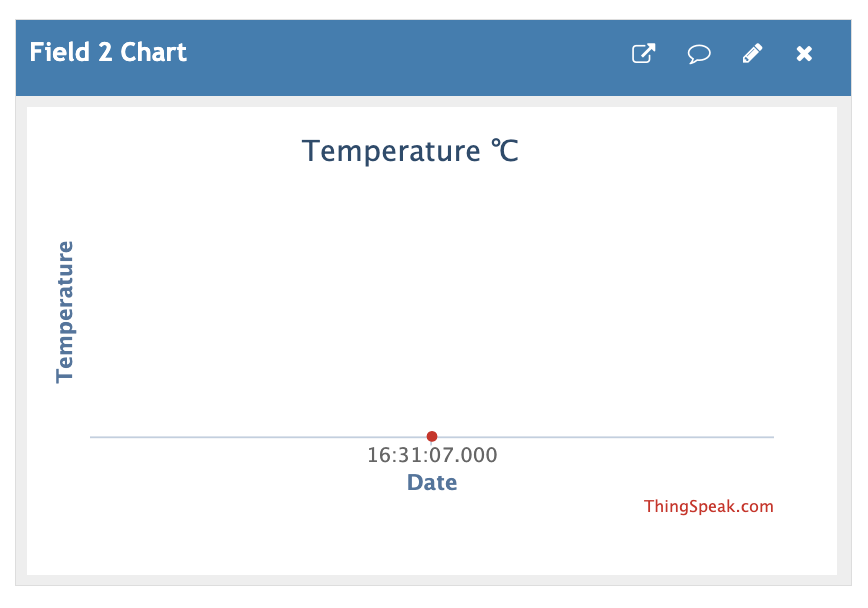
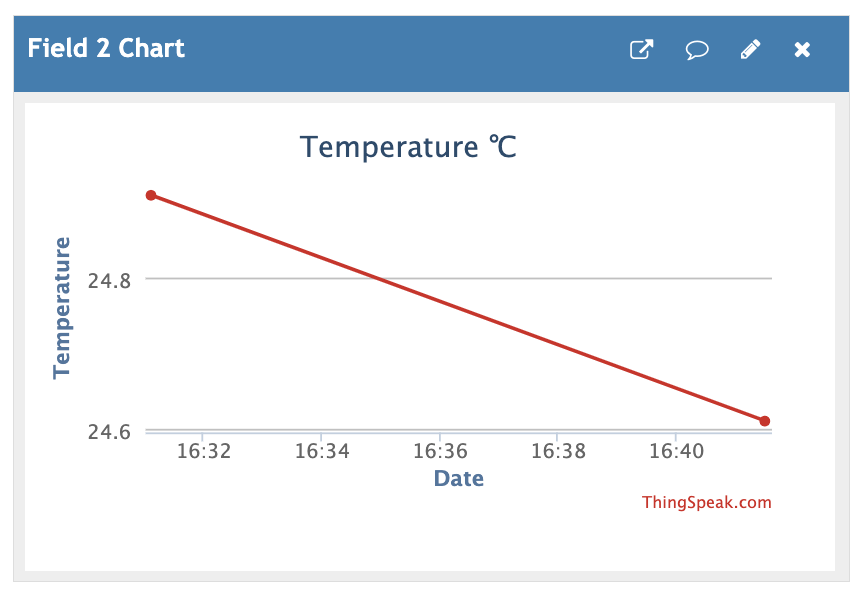
commit 0.4

diff --git a/README.md b/README.md
@@ -294,13 +294,15 @@ Wifi was the wireless protocols used for this project because the micocontroller
 As for the transport protocols MQTT and webhooks is used in this project. MQTT is used for sending the data measured by the sensors to adafruit. It was choosen because it is a lightweight, energy-efficient and easy to use Transport protocol. Webhooks is also used for when the moisture level in the soil reaches under 30 percent to send a message to my discord that it is time to water my plant.
 
 # Presenting the data
-The dashboard on adafruit is set up by 3 feeds of data one for air moisture, one for soil moisture and one for temperature. Each of these 3 feed have 1 diagram showing how the value of each sensor has changed over the past 7 days. For the two moisture feeds a gauge was chosen to display att what percentage of moisture the sensors was at the last reading and for the temperature a text field shows what temeprature it was at the last reading.
+The Thingspeak dashboard is configured with two data fields: one for humidity and one for temperature. Each field is accompanied by a diagram that displays the respective sensor values over the last 24 hours. The humidity data is presented in percentages, while the temperature data is shown in Celsius.
+
 ![Alt text](img/hum.png)
 Figure 7: Humidity field on Thingspeak
 
-You can also go in to each feed where you can see a more detaild diagram over the data and get each value in a table where you can see the exact value and at what time it was sent.
 ![Alt text](img/temp.png)
 Figure 8: Temperature field on Thingspeak
+
+By hovering over a diagram, you can view the precise value and the corresponding timestamp of the data point.
 
 # Finalizing the design
 After assembling the project this is result.
